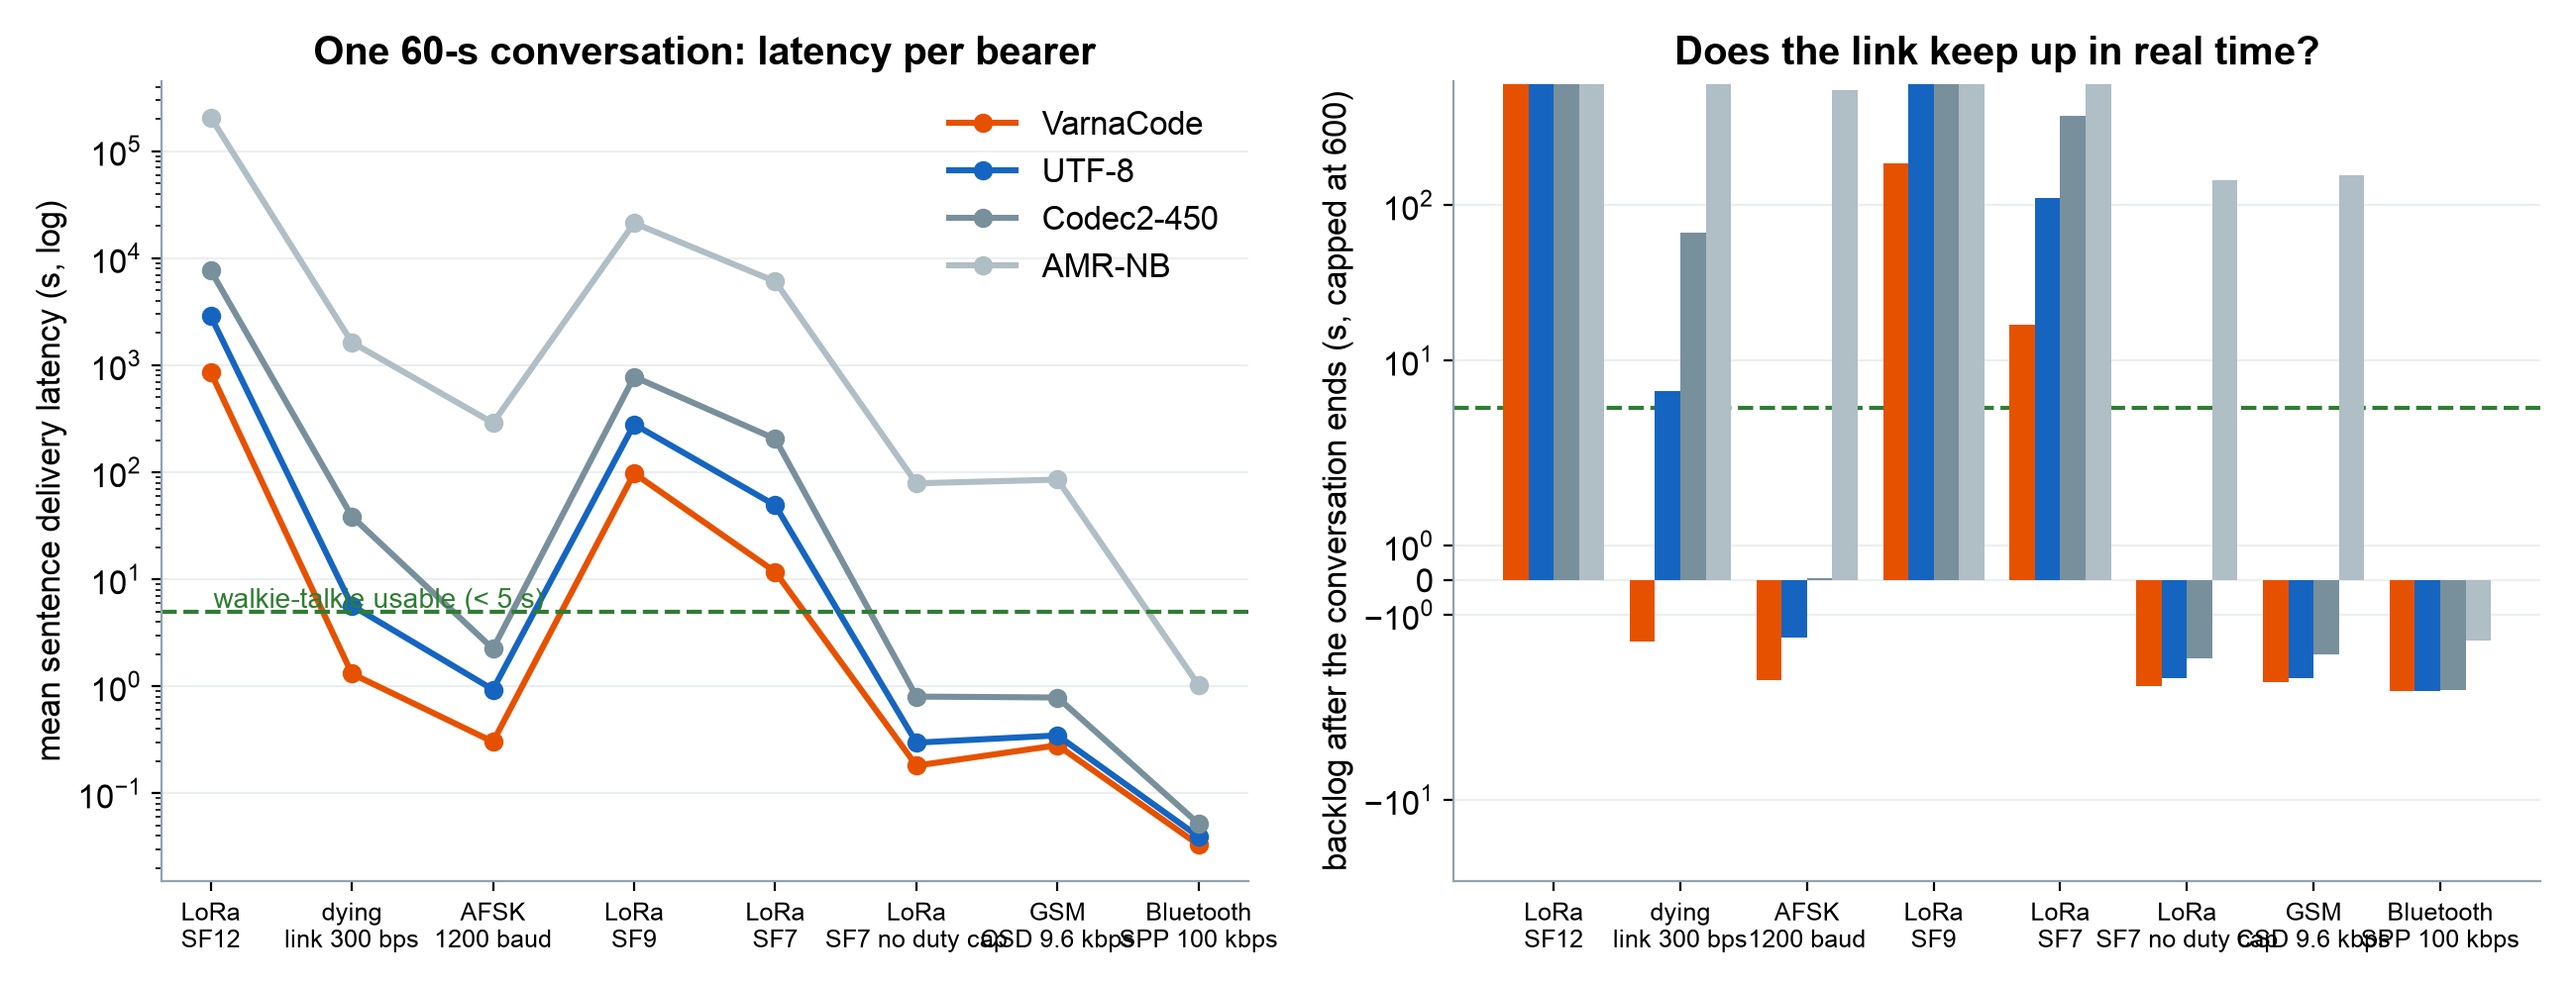
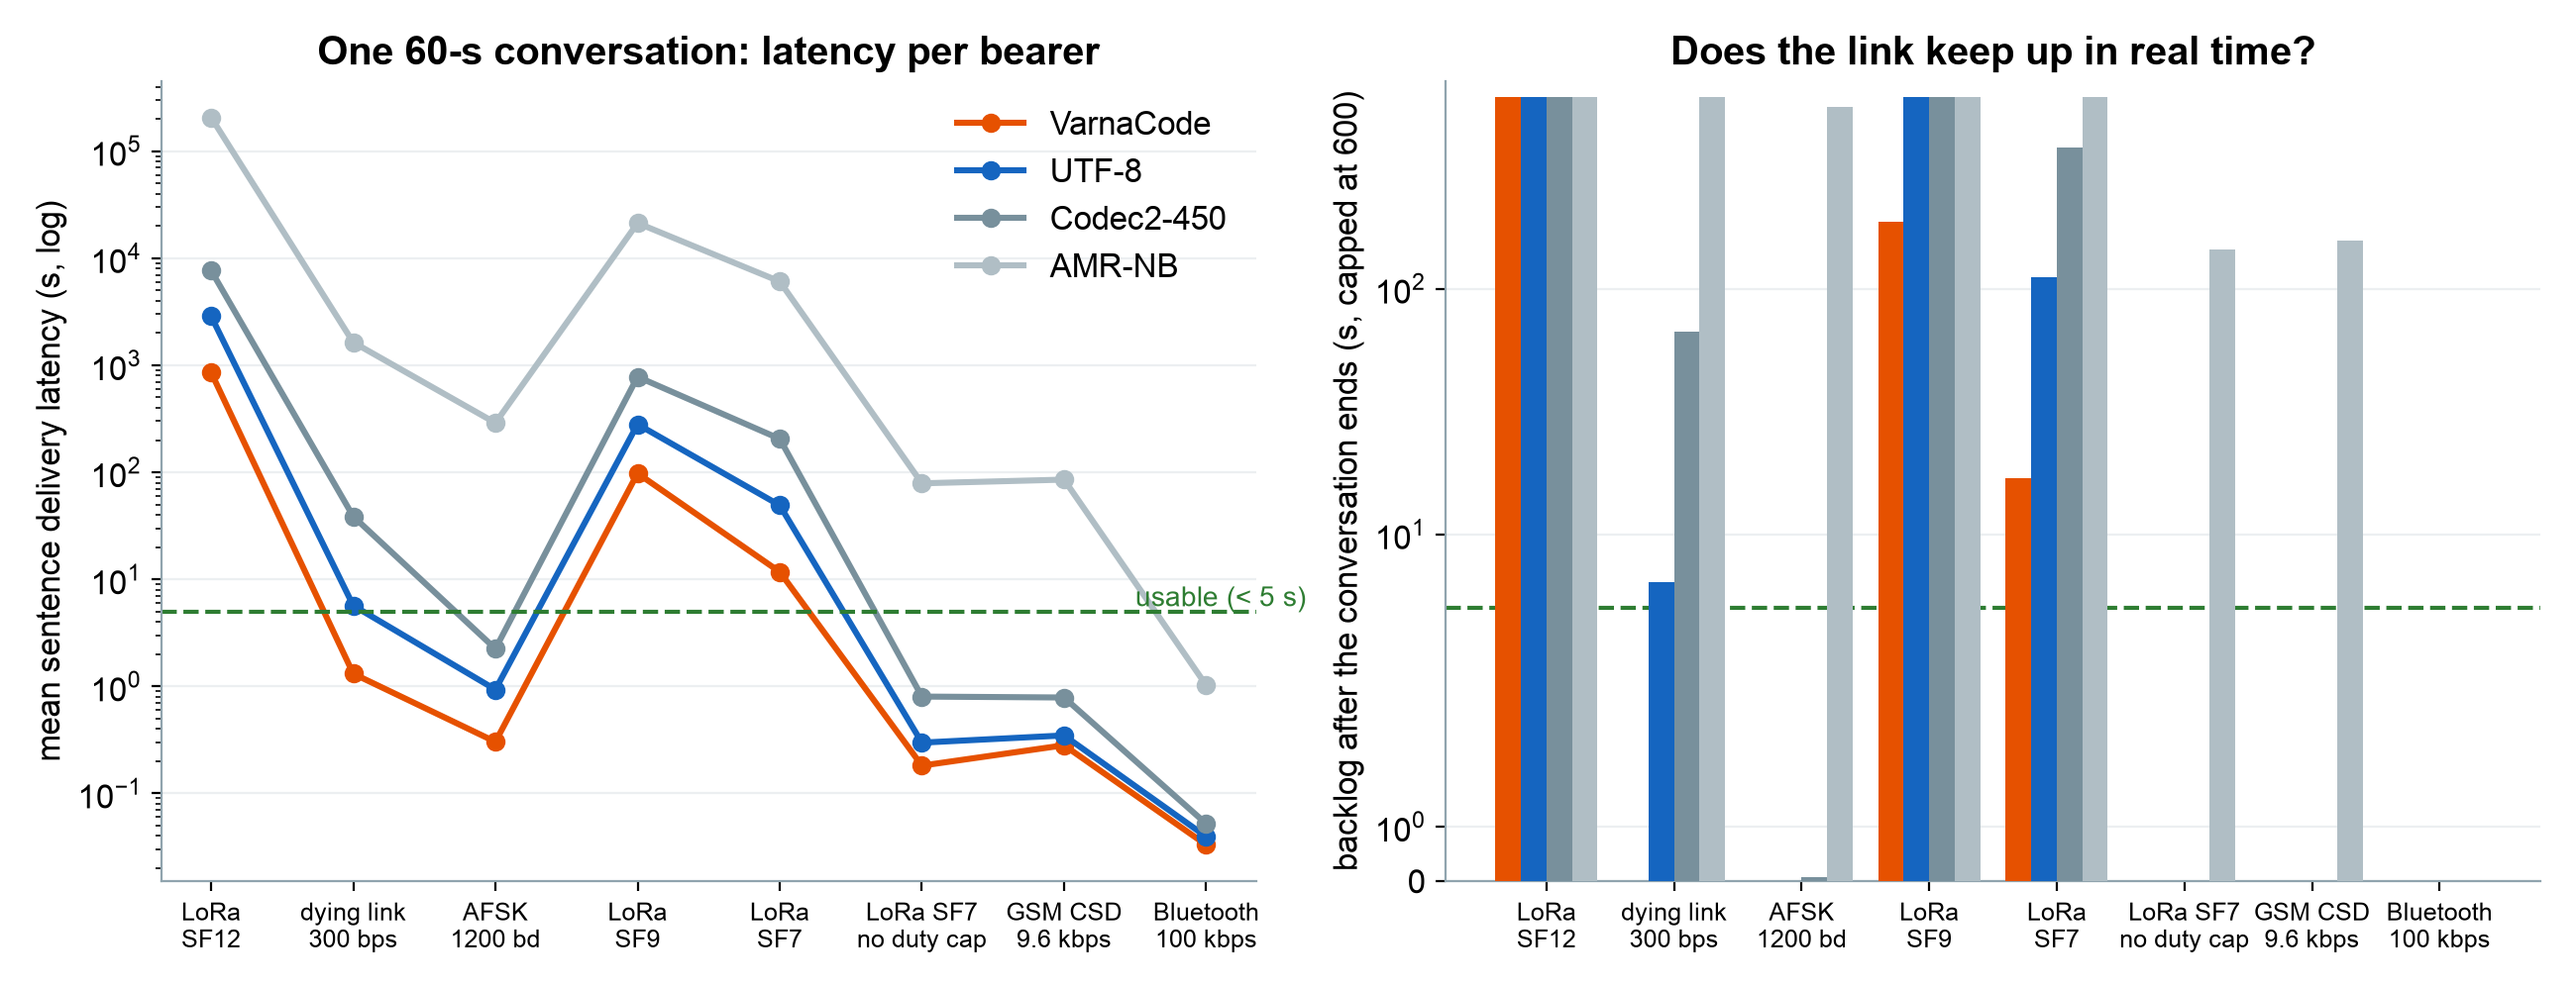
p7: chart labels/clamp polish

diff --git a/p0/linksim.py b/p0/linksim.py
@@ -164,24 +164,28 @@ def chart(res, path='chart-linksim.png'):
                          'axes.titleweight': 'bold', 'figure.facecolor': 'white'})
     colors = {'VarnaCode': '#e65100', 'UTF-8': '#1565c0', 'Codec2-450': '#78909c', 'AMR-NB': '#b0bec5'}
     order = sorted(BEARERS, key=lambda b: b.bps)
-    names = [b.name.replace(' ', '\n', 1) for b in order]
+    short = {'LoRa SF12': 'LoRa\nSF12', 'LoRa SF9': 'LoRa\nSF9', 'LoRa SF7': 'LoRa\nSF7',
+             'LoRa SF7 no duty cap': 'LoRa SF7\nno duty cap', 'dying link 300 bps': 'dying link\n300 bps',
+             'AFSK 1200 baud': 'AFSK\n1200 bd', 'GSM CSD 9.6 kbps': 'GSM CSD\n9.6 kbps',
+             'Bluetooth SPP 100 kbps': 'Bluetooth\n100 kbps'}
+    names = [short.get(b.name, b.name) for b in order]
     fig, (a1, a2) = plt.subplots(1, 2, figsize=(13, 5), dpi=200)
     x = range(len(order))
     for e, c in colors.items():
         a1.plot(list(x), [sum(res[(b.name, e)]['lat']) / len(res[(b.name, e)]['lat']) for b in order],
                 marker='o', lw=2.2, color=c, label=e)
         a2.bar([i + list(colors).index(e) * 0.2 - 0.3 for i in x],
-               [min(res[(b.name, e)]['end'] - CONV_SECONDS, 600) for b in order], width=0.2, color=c, label=e, zorder=3)
+               [min(max(res[(b.name, e)]['end'] - CONV_SECONDS, 0), 600) for b in order], width=0.2, color=c, label=e, zorder=3)
     a1.set_yscale('log'); a1.set_xticks(list(x)); a1.set_xticklabels(names, fontsize=9)
     a1.set_ylabel('mean sentence delivery latency (s, log)')
     a1.set_title('One 60-s conversation: latency per bearer')
     a1.grid(axis='y', color='#eceff1'); a1.legend(frameon=False)
-    a1.axhline(5, color='#2e7d32', ls='--', lw=1.5); a1.text(0.02, 5.4, 'walkie-talkie usable (< 5 s)', color='#2e7d32', fontsize=10)
+    a1.axhline(5, color='#2e7d32', ls='--', lw=1.5); a1.text(len(order) - 0.3, 5.6, 'usable (< 5 s)', color='#2e7d32', fontsize=10, ha='right')
     a2.axhline(5, color='#2e7d32', ls='--', lw=1.5)
     a2.set_xticks(list(x)); a2.set_xticklabels(names, fontsize=9)
     a2.set_ylabel('backlog after the conversation ends (s, capped at 600)')
     a2.set_title('Does the link keep up in real time?'); a2.grid(axis='y', color='#eceff1', zorder=0)
-    a2.set_yscale('symlog', linthresh=5)
+    a2.set_yscale('symlog', linthresh=5); a2.set_ylim(0, 700)
     for a in (a1, a2):
         for s in ['top', 'right']: a.spines[s].set_visible(False)
     plt.tight_layout(); plt.savefig(path); plt.close()
